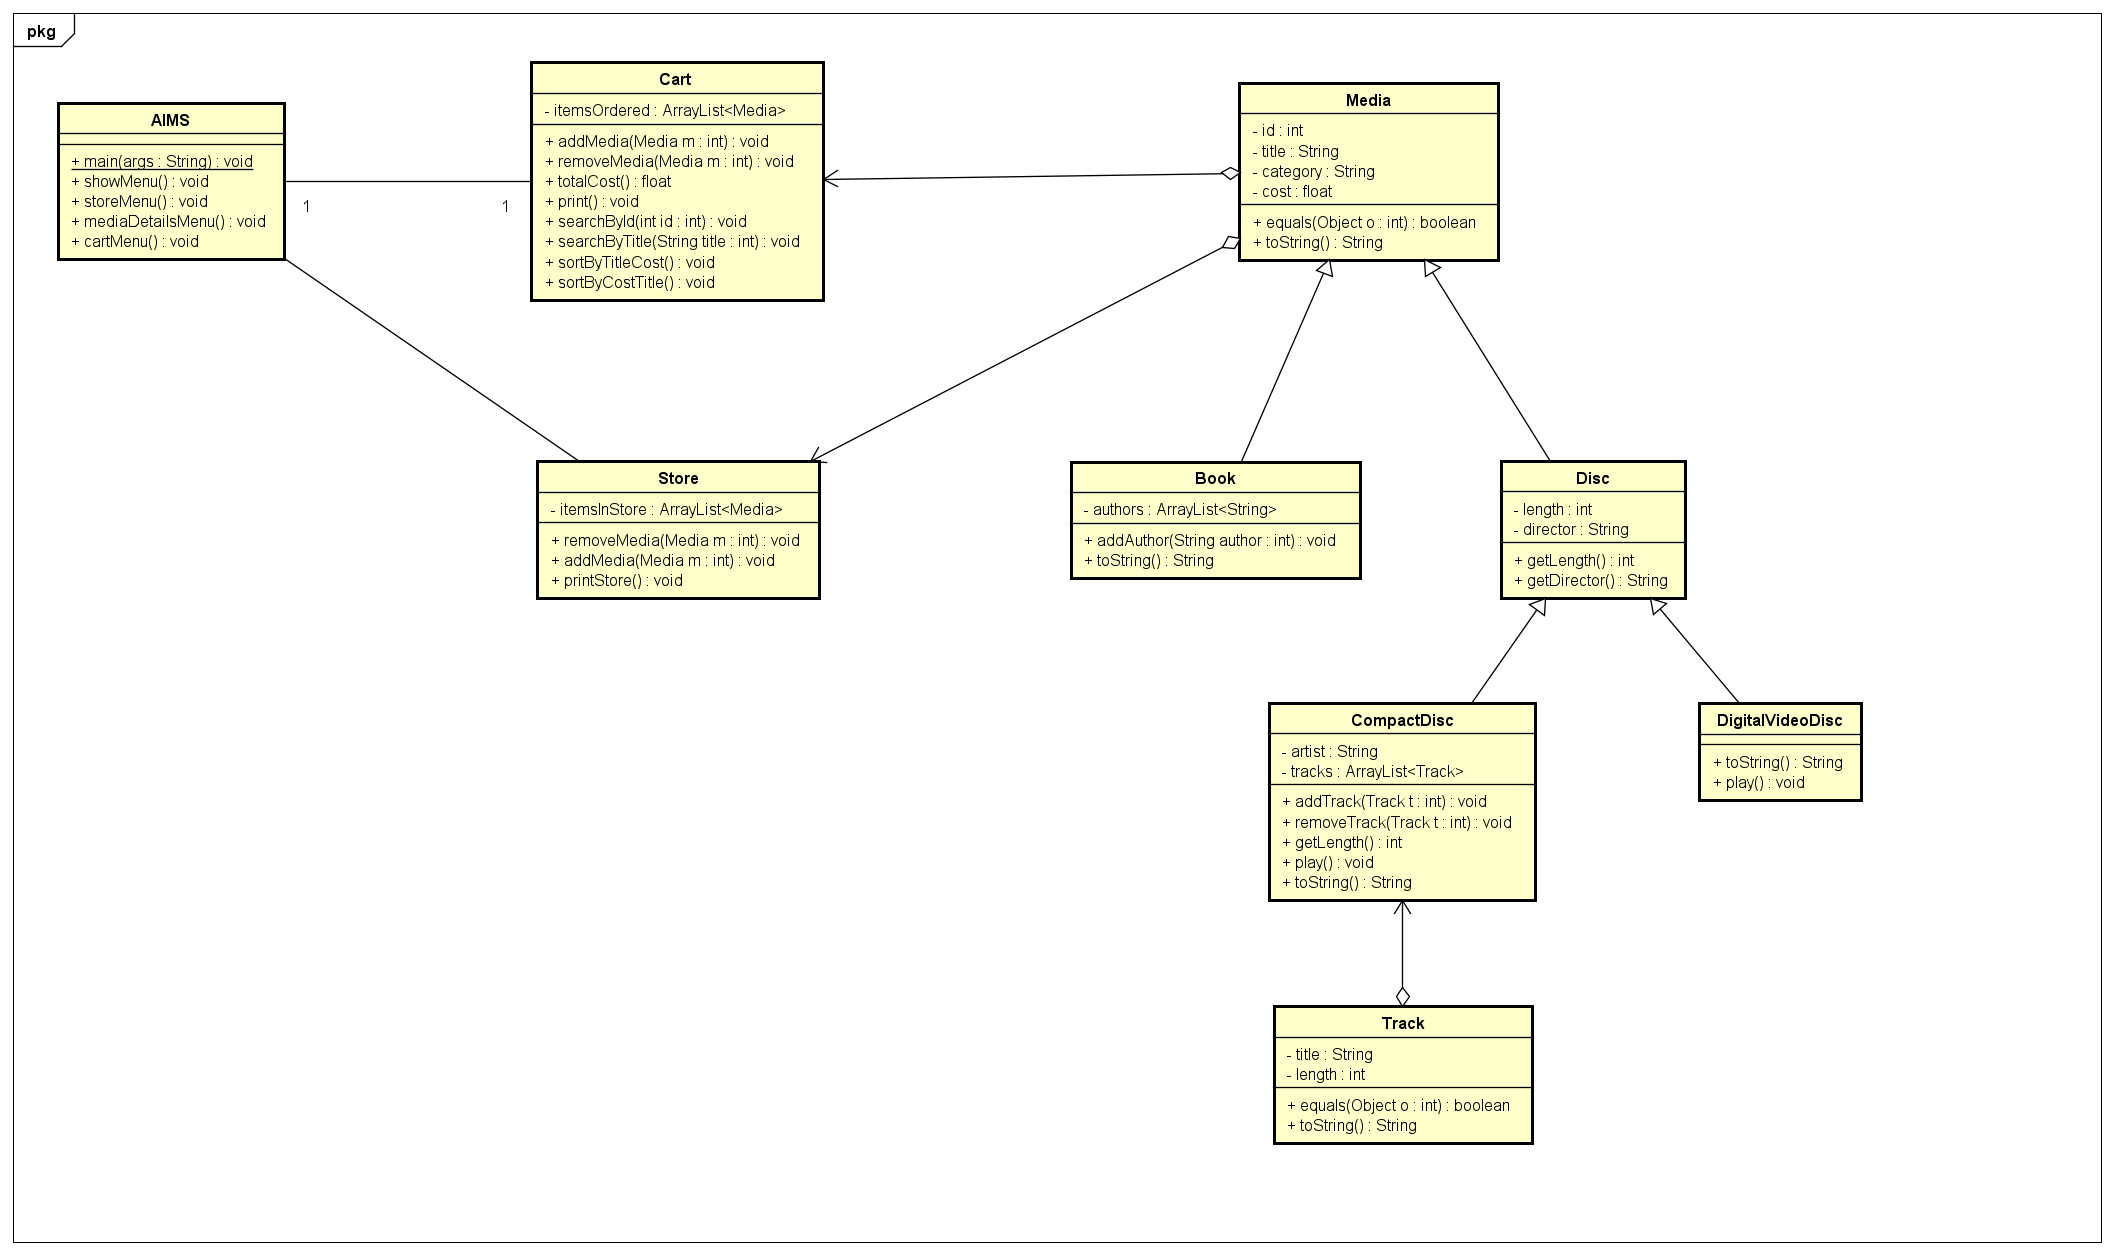
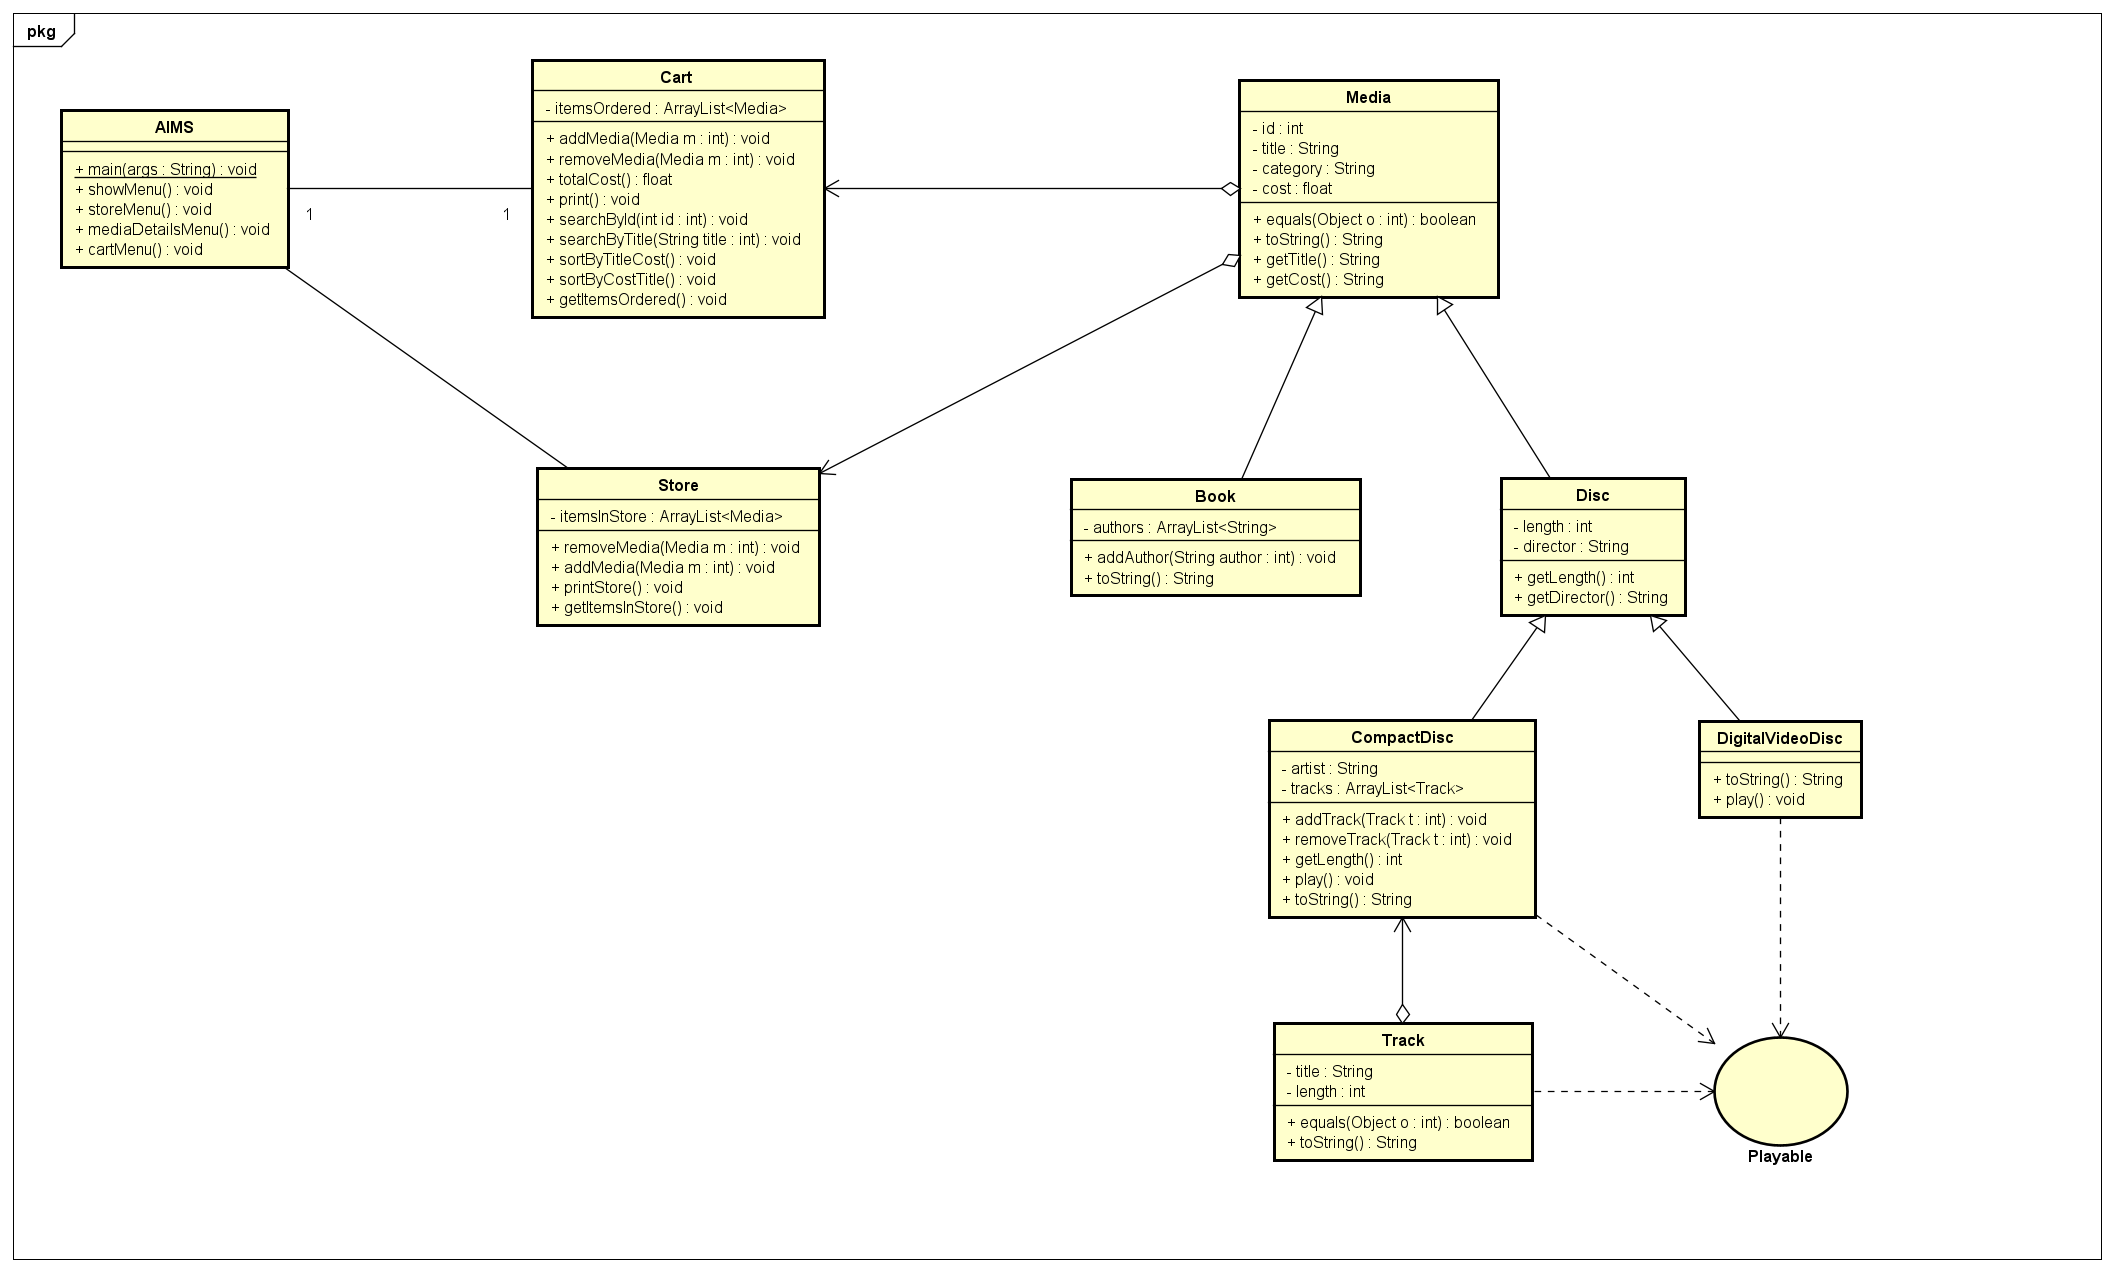
Complete lab04

diff --git a/GUIProject/src/hust/soict/hedspi/swing/NumberGrid.java b/GUIProject/src/hust/soict/hedspi/swing/NumberGrid.java
@@ -1,0 +1,79 @@
+package hust.soict.hedspi.swing;
+
+import javax.swing.*;
+import java.awt.*;
+import java.awt.event.*;
+
+public class NumberGrid extends JFrame {
+    private JButton[] btnNumbers = new JButton[10];
+    private JButton btnDelete, btnReset;
+    private JTextField tfDisplay;
+
+    public NumberGrid() {
+        // Tạo ô hiển thị
+        tfDisplay = new JTextField();
+        tfDisplay.setComponentOrientation(ComponentOrientation.RIGHT_TO_LEFT);
+
+        // Tạo panel chứa các nút số và chức năng
+        JPanel panelButtons = new JPanel(new GridLayout(4, 3));
+        addButtons(panelButtons);
+
+        // Sắp xếp layout
+        Container cp = getContentPane();
+        cp.setLayout(new BorderLayout());
+        cp.add(tfDisplay, BorderLayout.NORTH);
+        cp.add(panelButtons, BorderLayout.CENTER);
+
+        setDefaultCloseOperation(JFrame.EXIT_ON_CLOSE);
+        setTitle("Number Grid");
+        setSize(200, 200);
+        setVisible(true);
+    }
+
+    private void addButtons(JPanel panel) {
+        ButtonListener btnListener = new ButtonListener();
+
+        // Thêm các nút số 1–9
+        for (int i = 1; i <= 9; i++) {
+            btnNumbers[i] = new JButton(String.valueOf(i));
+            panel.add(btnNumbers[i]);
+            btnNumbers[i].addActionListener(btnListener);
+        }
+
+        // Nút Delete
+        btnDelete = new JButton("DEL");
+        panel.add(btnDelete);
+        btnDelete.addActionListener(btnListener);
+
+        // Nút số 0
+        btnNumbers[0] = new JButton("0");
+        panel.add(btnNumbers[0]);
+        btnNumbers[0].addActionListener(btnListener);
+
+        // Nút Reset
+        btnReset = new JButton("C");
+        panel.add(btnReset);
+        btnReset.addActionListener(btnListener);
+    }
+
+    private class ButtonListener implements ActionListener {
+        @Override
+        public void actionPerformed(ActionEvent e) {
+            String button = e.getActionCommand();
+            if (button.charAt(0) >= '0' && button.charAt(0) <= '9') {
+                tfDisplay.setText(tfDisplay.getText() + button);
+            } else if (button.equals("DEL")) {
+                String text = tfDisplay.getText();
+                if (text.length() > 0) {
+                    tfDisplay.setText(text.substring(0, text.length() - 1));
+                }
+            } else if (button.equals("C")) {
+                tfDisplay.setText("");
+            }
+        }
+    }
+
+    public static void main(String[] args) {
+        new NumberGrid();
+    }
+}

diff --git a/GUIProject/src/hust/soict/hedspi/swing/SwingAccumulator.java b/GUIProject/src/hust/soict/hedspi/swing/SwingAccumulator.java
@@ -1,0 +1,48 @@
+package hust.soict.hedspi.swing;
+
+import javax.swing.*;
+import java.awt.*;
+import java.awt.event.*;
+
+public class SwingAccumulator extends JFrame {
+    private JTextField tfInput;
+    private JTextField tfOutput;
+    private int sum = 0;    // Accumulated sum, init to 0
+
+    // Constructor to setup the GUI components and event handlers
+    public SwingAccumulator() {
+        Container cp = getContentPane();
+        cp.setLayout(new GridLayout(2, 2));
+
+        cp.add(new JLabel("Enter an Integer: "));
+
+        tfInput = new JTextField(10);
+        cp.add(tfInput);
+        tfInput.addActionListener(new TFInputListener());
+
+        cp.add(new JLabel("The Accumulated Sum is: "));
+
+        tfOutput = new JTextField(10);
+        tfOutput.setEditable(false);
+        cp.add(tfOutput);
+
+        setTitle("Swing Accumulator");
+        setSize(350, 120);
+        setDefaultCloseOperation(JFrame.EXIT_ON_CLOSE);
+        setVisible(true);
+    }
+
+    public static void main(String[] args) {
+        new SwingAccumulator();
+    }
+
+    private class TFInputListener implements ActionListener {
+        @Override
+        public void actionPerformed(ActionEvent evt) {
+            int numberIn = Integer.parseInt(tfInput.getText());
+            sum += numberIn;
+            tfInput.setText("");
+            tfOutput.setText(sum + "");
+        }
+    }
+}

diff --git a/GUIProject/src/hust/soict/hedspi/swing/AWTAccumulator.java b/GUIProject/src/hust/soict/hedspi/swing/AWTAccumulator.java
@@ -1,0 +1,45 @@
+package hust.soict.hedspi.swing;
+
+import java.awt.*;
+import java.awt.event.*;
+
+public class AWTAccumulator extends Frame {
+    private TextField tfInput;
+    private TextField tfOutput;
+    private int sum = 0;  // Accumulated sum, init to 0
+
+    // Constructor to setup the GUI components and event handlers
+    public AWTAccumulator() {
+        setLayout(new GridLayout(2, 2));
+
+        add(new Label("Enter an Integer: "));
+
+        tfInput = new TextField(10);
+        add(tfInput);
+        tfInput.addActionListener(new TFInputListener());
+
+        add(new Label("The Accumulated Sum is: "));
+
+        tfOutput = new TextField(10);
+        tfOutput.setEditable(false);
+        add(tfOutput);
+
+        setTitle("AWT Accumulator");
+        setSize(350, 120);
+        setVisible(true);
+    }
+
+    public static void main(String[] args) {
+        new AWTAccumulator();
+    }
+
+    private class TFInputListener implements ActionListener {
+        @Override
+        public void actionPerformed(ActionEvent evt) {
+            int numberIn = Integer.parseInt(tfInput.getText());
+            sum += numberIn;
+            tfInput.setText("");
+            tfOutput.setText(sum + "");
+        }
+    }
+}